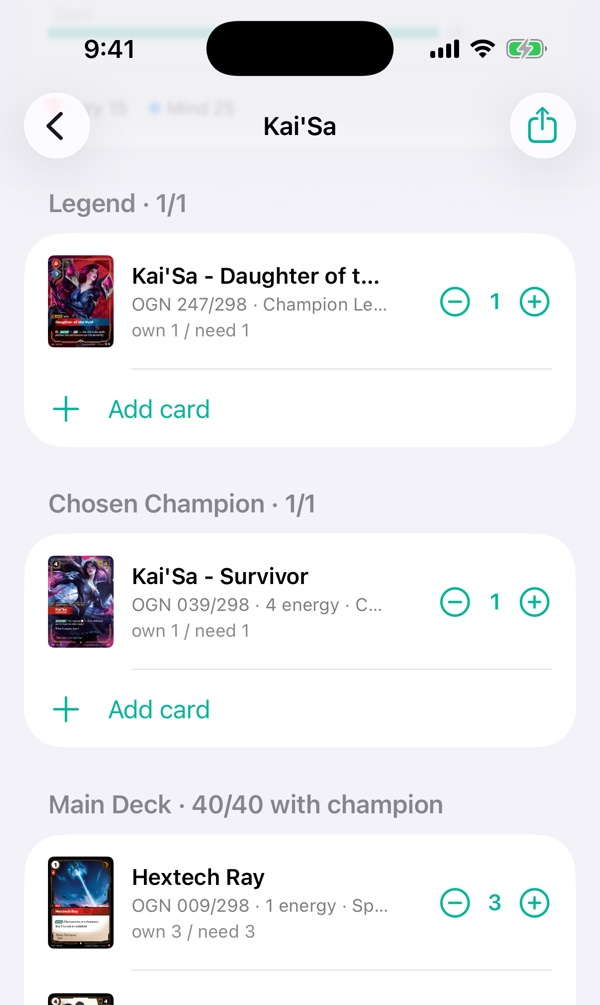
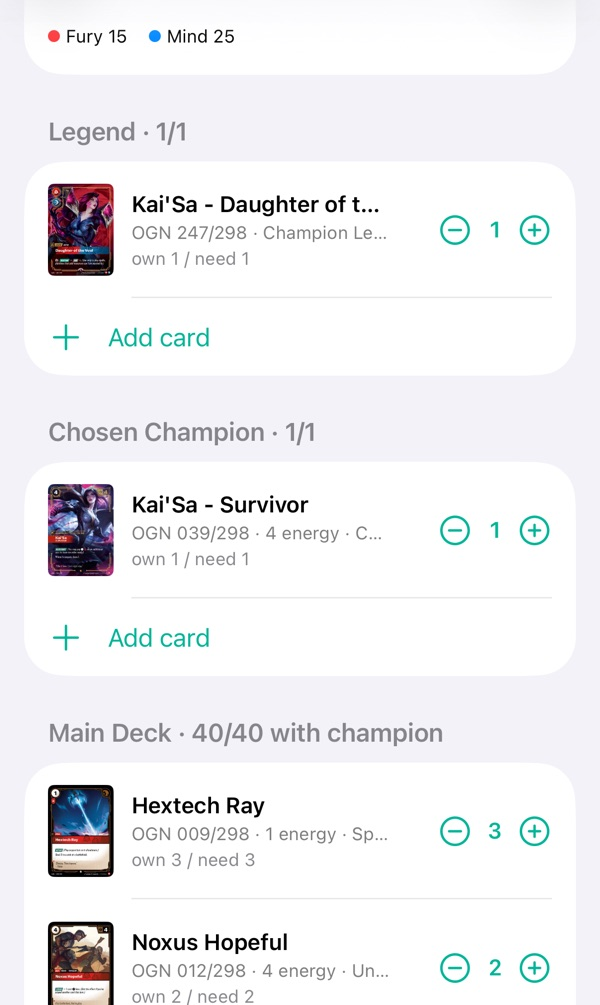
Crop the deck breakdown to show its domains, not the status bar

diff --git a/index.html b/index.html
@@ -36,7 +36,7 @@ layout: default
   <figure><img src="assets/img/events.jpg" alt="Event with its rounds and record" width="600" height="1005"><figcaption>Events</figcaption></figure>
   <figure><img src="assets/img/decks.jpg" alt="Top tournament decks ranked by cost to finish, with the share of each you already own" width="600" height="1005"><figcaption>Build from your collection</figcaption></figure>
   <figure><img src="assets/img/chat.jpg" alt="Deck chat about a complete Kai'Sa deck, suggesting a sideboard swap with an Apply button" width="600" height="1005"><figcaption>Deck chat</figcaption></figure>
-  <figure><img src="assets/img/deck.jpg" alt="A Kai'Sa deck's legend, chosen champion and main deck, with copies owned and needed" width="600" height="1005"><figcaption>Deck breakdown</figcaption></figure>
+  <figure><img src="assets/img/deck.jpg" alt="A Kai'Sa deck's domains, legend, chosen champion and main deck, with copies owned and needed" width="600" height="1005"><figcaption>Deck breakdown</figcaption></figure>
   <figure><img src="assets/img/registration.jpg" alt="Registration sheet for a Kai'Sa deck with player, event and a preview of the PDF" width="600" height="1005"><figcaption>Registration sheet</figcaption></figure>
   <figure><img src="assets/img/import.jpg" alt="Import preview of a pasted card list, with its value and matched cards" width="600" height="1005"><figcaption>Import</figcaption></figure>
 </div>
